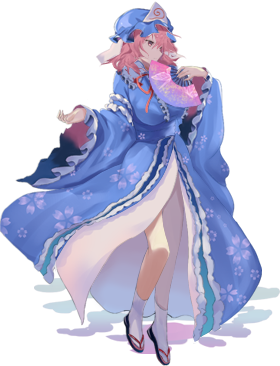
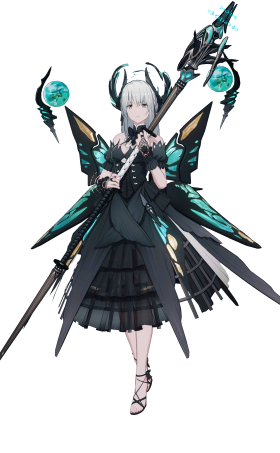
更改了人物图片（由于是正面，导致观感不佳，后期修改），完善了闪避机制，增加纯色信号球

diff --git a/src/main/java/asimplemodforsts/powers/ComboPurePower.java b/src/main/java/asimplemodforsts/powers/ComboPurePower.java
@@ -3,31 +3,31 @@ package asimplemodforsts.powers;
 import asimplemodforsts.ResourceLib;
 import com.badlogic.gdx.graphics.g2d.TextureAtlas;
 import com.megacrit.cardcrawl.actions.AbstractGameAction;
-import com.megacrit.cardcrawl.actions.common.*;
+import com.megacrit.cardcrawl.actions.common.GainEnergyAction;
+import com.megacrit.cardcrawl.actions.common.ReducePowerAction;
+import com.megacrit.cardcrawl.actions.common.RemoveSpecificPowerAction;
 import com.megacrit.cardcrawl.actions.utility.UseCardAction;
 import com.megacrit.cardcrawl.actions.watcher.ChangeStanceAction;
 import com.megacrit.cardcrawl.cards.AbstractCard;
 import com.megacrit.cardcrawl.cards.DamageInfo;
 import com.megacrit.cardcrawl.core.AbstractCreature;
 import com.megacrit.cardcrawl.core.CardCrawlGame;
-import com.megacrit.cardcrawl.dungeons.AbstractDungeon;
 import com.megacrit.cardcrawl.helpers.ImageMaster;
 import com.megacrit.cardcrawl.localization.PowerStrings;
 import com.megacrit.cardcrawl.powers.AbstractPower;
-import com.megacrit.cardcrawl.powers.GainStrengthPower;
 
-public class DodgePower extends AbstractPower {
-    public static final String POWER_ID = "DodgePower";
-    private static final PowerStrings POWER_STRINGS = CardCrawlGame.languagePack.getPowerStrings("DodgePower");
+//纯色信号球，可以当作任意信号球使用
+public class ComboPurePower extends AbstractPower {
+    public static final String POWER_ID = "ComboPurePower";
+    private static final PowerStrings POWER_STRINGS = CardCrawlGame.languagePack.getPowerStrings("ComboPurePower");
     public static final String NAME =POWER_STRINGS.NAME;
     public static final String[] DESCRIPTIONS=POWER_STRINGS.DESCRIPTIONS;
-    private static final int ComboPAmt = 1;//纯色信号球数量
 
-    public DodgePower(AbstractCreature owner, int dodgeAmt){
+    public ComboPurePower(AbstractCreature owner, int comboPAmt){
         this.name=NAME;
         this.ID=POWER_ID;
         this.owner = owner;
-        this.amount = dodgeAmt;
+        this.amount = comboPAmt;
         this.updateDescription();
         this.region48 = new TextureAtlas.AtlasRegion(ImageMaster.loadImage(ResourceLib.powerImagePath(POWER_ID)), 0, 0, 32, 32);
         this.region128 = new TextureAtlas.AtlasRegion(ImageMaster.loadImage(ResourceLib.powerImageLargePath(POWER_ID)), 0, 0, 64, 64);
@@ -37,18 +37,27 @@ public class DodgePower extends AbstractPower {
         this.fontScale = 8.0F;
         this.amount = stackAmount;
     }
+    public void onUseCard(AbstractCard card, UseCardAction action) {
+        if (this.amount>0) {
+            //得到两能量，可以改成根据卡牌实现不同功能
+            addToBot((AbstractGameAction)new GainEnergyAction(2));
+            this.addToTop(new ReducePowerAction(this.owner, this.owner, this.ID, 1));
+            flash();
+        }
+    }
     public int onAttackedToChangeDamage(DamageInfo info, int damageAmount) {
         if (damageAmount > 0) {
-            addToTop((AbstractGameAction)new ReducePowerAction(this.owner, this.owner, this.ID, 1));
-            //创建纯色信号球
-            addToBot((AbstractGameAction)new ApplyPowerAction((AbstractCreature)this.owner, (AbstractCreature)this.owner, (AbstractPower)new ComboPurePower((AbstractCreature)this.owner, ComboPAmt), ComboPAmt));
+            this.addToTop(new ReducePowerAction(this.owner, this.owner, this.ID, 1));
         }
-        return 0;
+        return damageAmount;
     }
+
+//    public void atStartOfTurn() {
+//        addToBot((AbstractGameAction)new ChangeStanceAction("Wrath"));
+//        addToBot((AbstractGameAction)new RemoveSpecificPowerAction(this.owner, this.owner, this));
+//    }
     public void updateDescription() {
         this.description = DESCRIPTIONS[0] + this.amount + DESCRIPTIONS[1];
-    }
-    public void atStartOfTurn() {   //在下一个回合开始后自动消除
-        addToBot((AbstractGameAction)new RemoveSpecificPowerAction(this.owner, this.owner, ID));
+
     }
 }

diff --git a/src/main/java/asimplemodforsts/cards/basic/Strike_Pink.java b/src/main/java/asimplemodforsts/cards/basic/Strike_Pink.java
@@ -22,6 +22,7 @@ public class Strike_Pink extends CustomCard {
     private static final int COST = 1;
     private static final int BASIC_DAMAGE = 6;
     private static final int UPGRADE_PLUS_DAMAGE = 3;
+
     public Strike_Pink() {
         super(ID, NAME, IMGPATH, COST, DESCRIPTION, CardType.ATTACK, AbstractCardEnum.Liv_COLOR, CardRarity.BASIC, CardTarget.ENEMY);
         tags.add(AbstractCard.CardTags.STRIKE);
